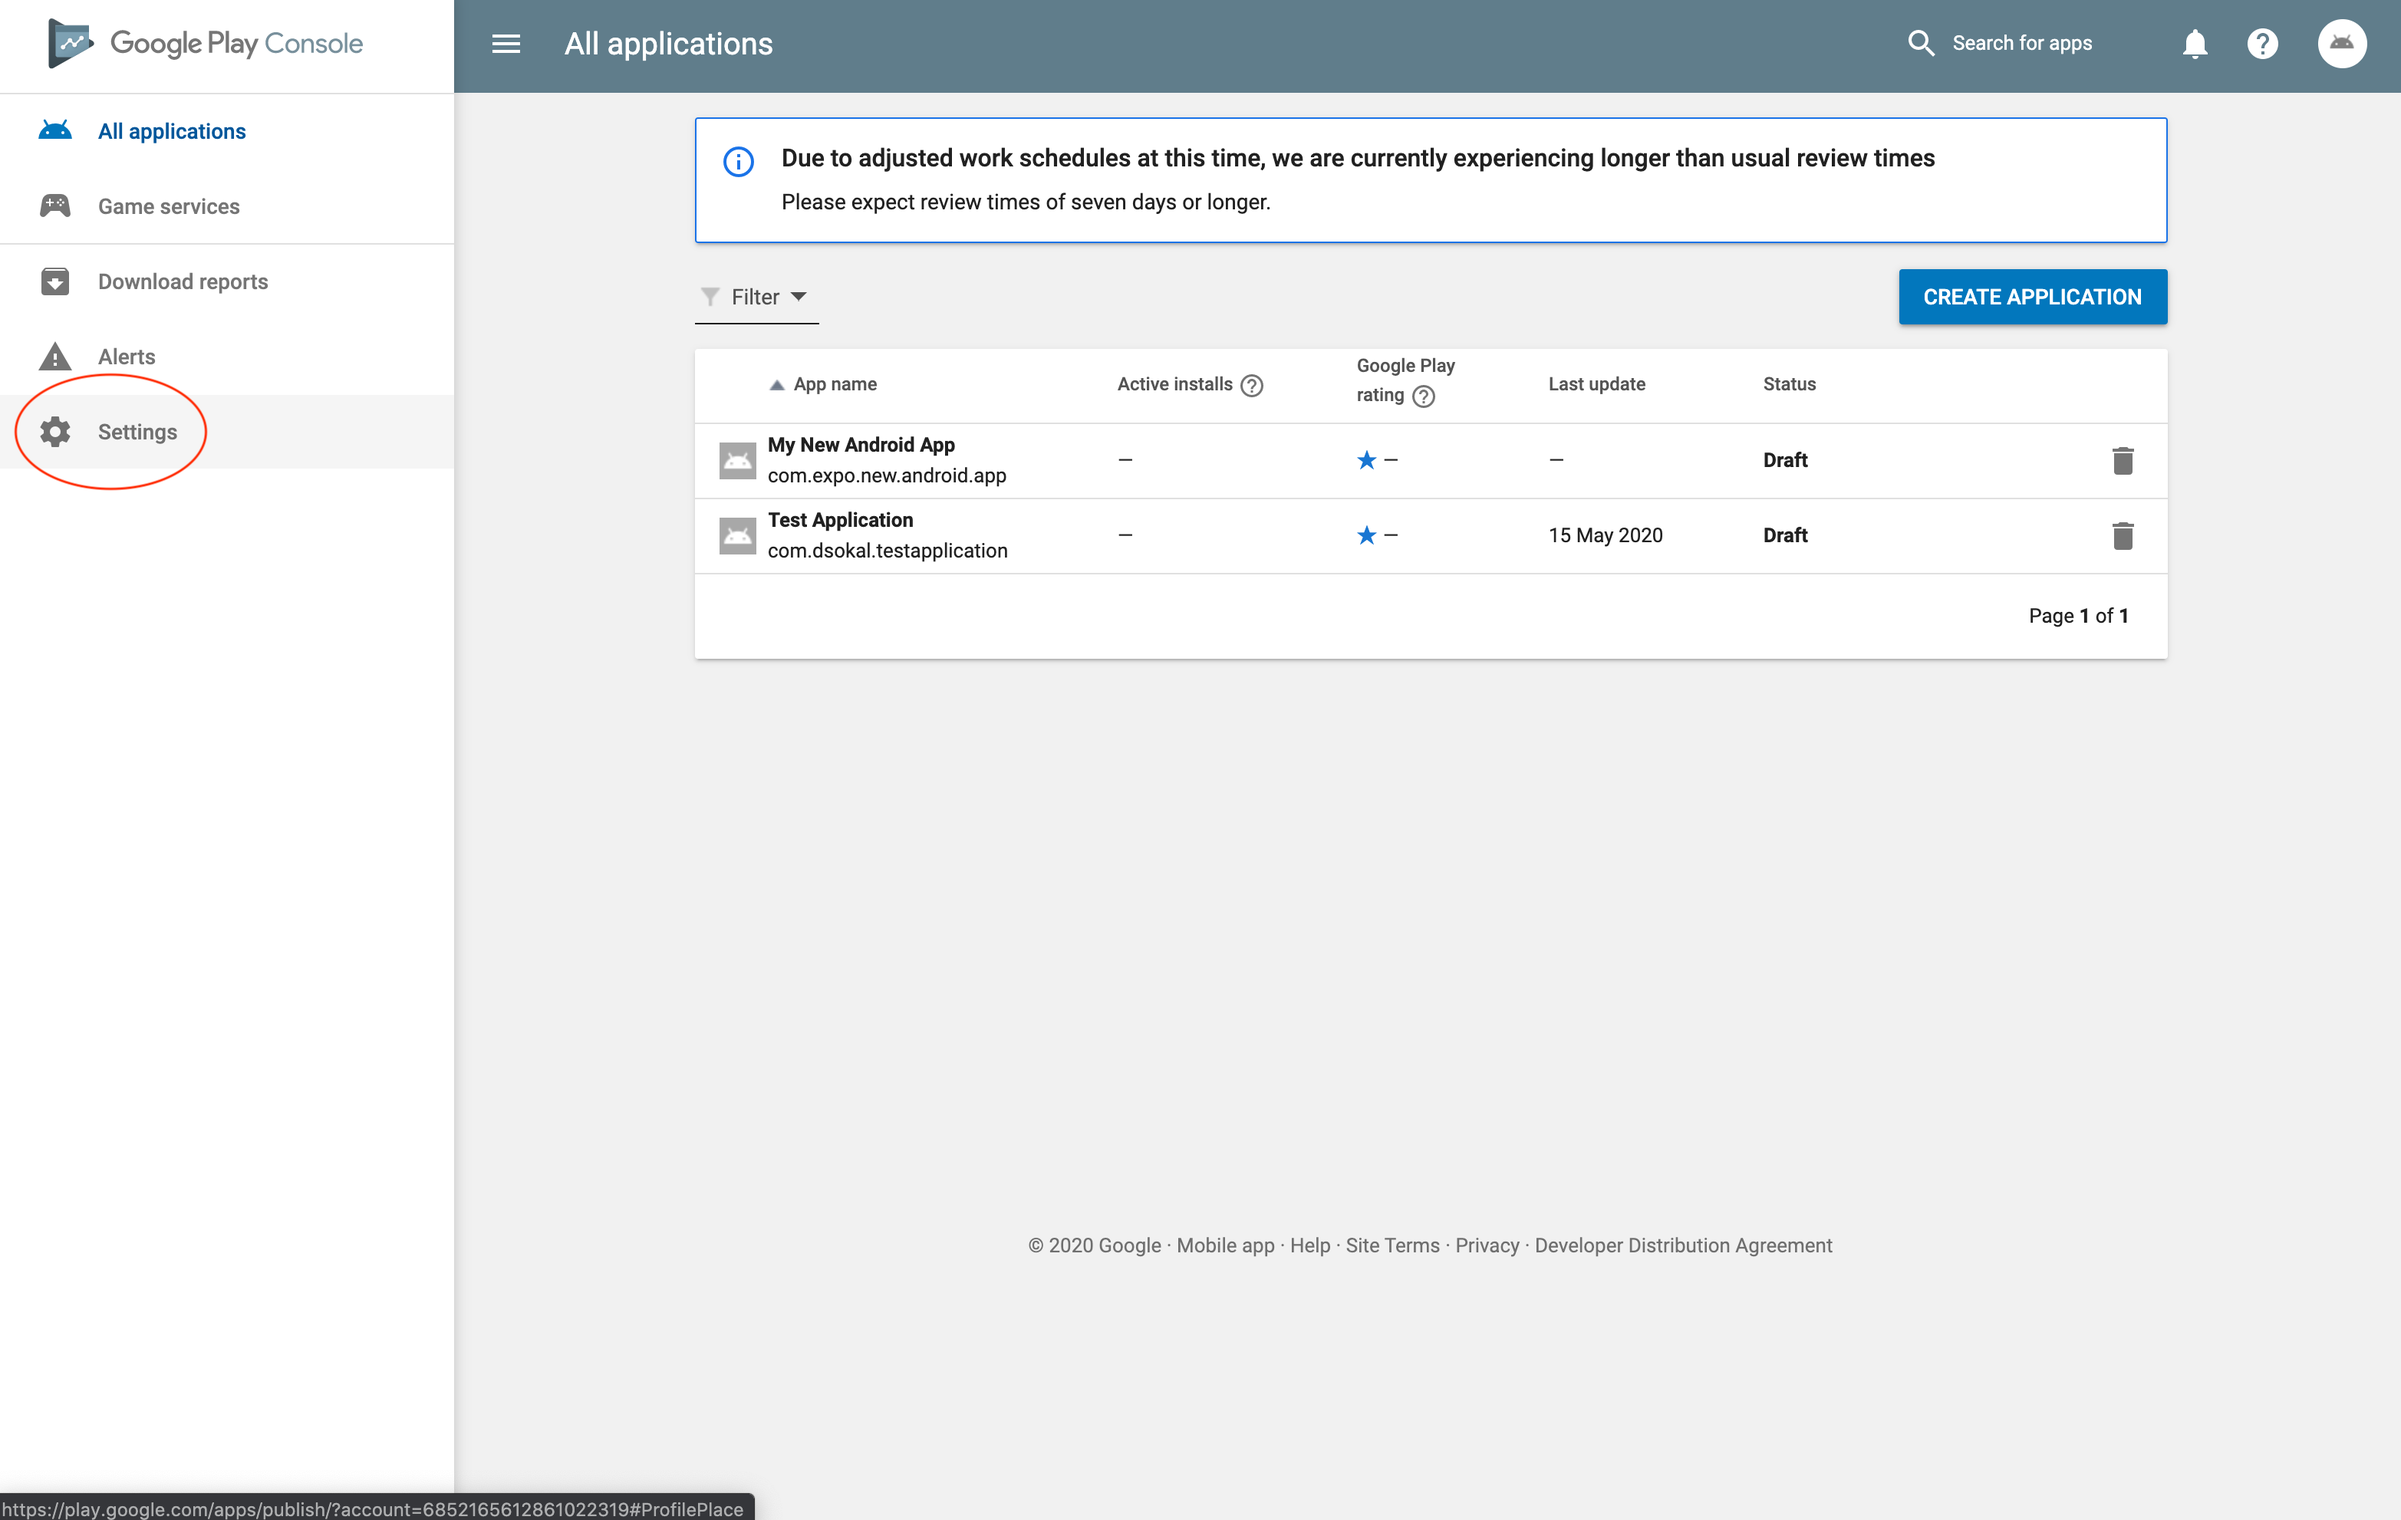
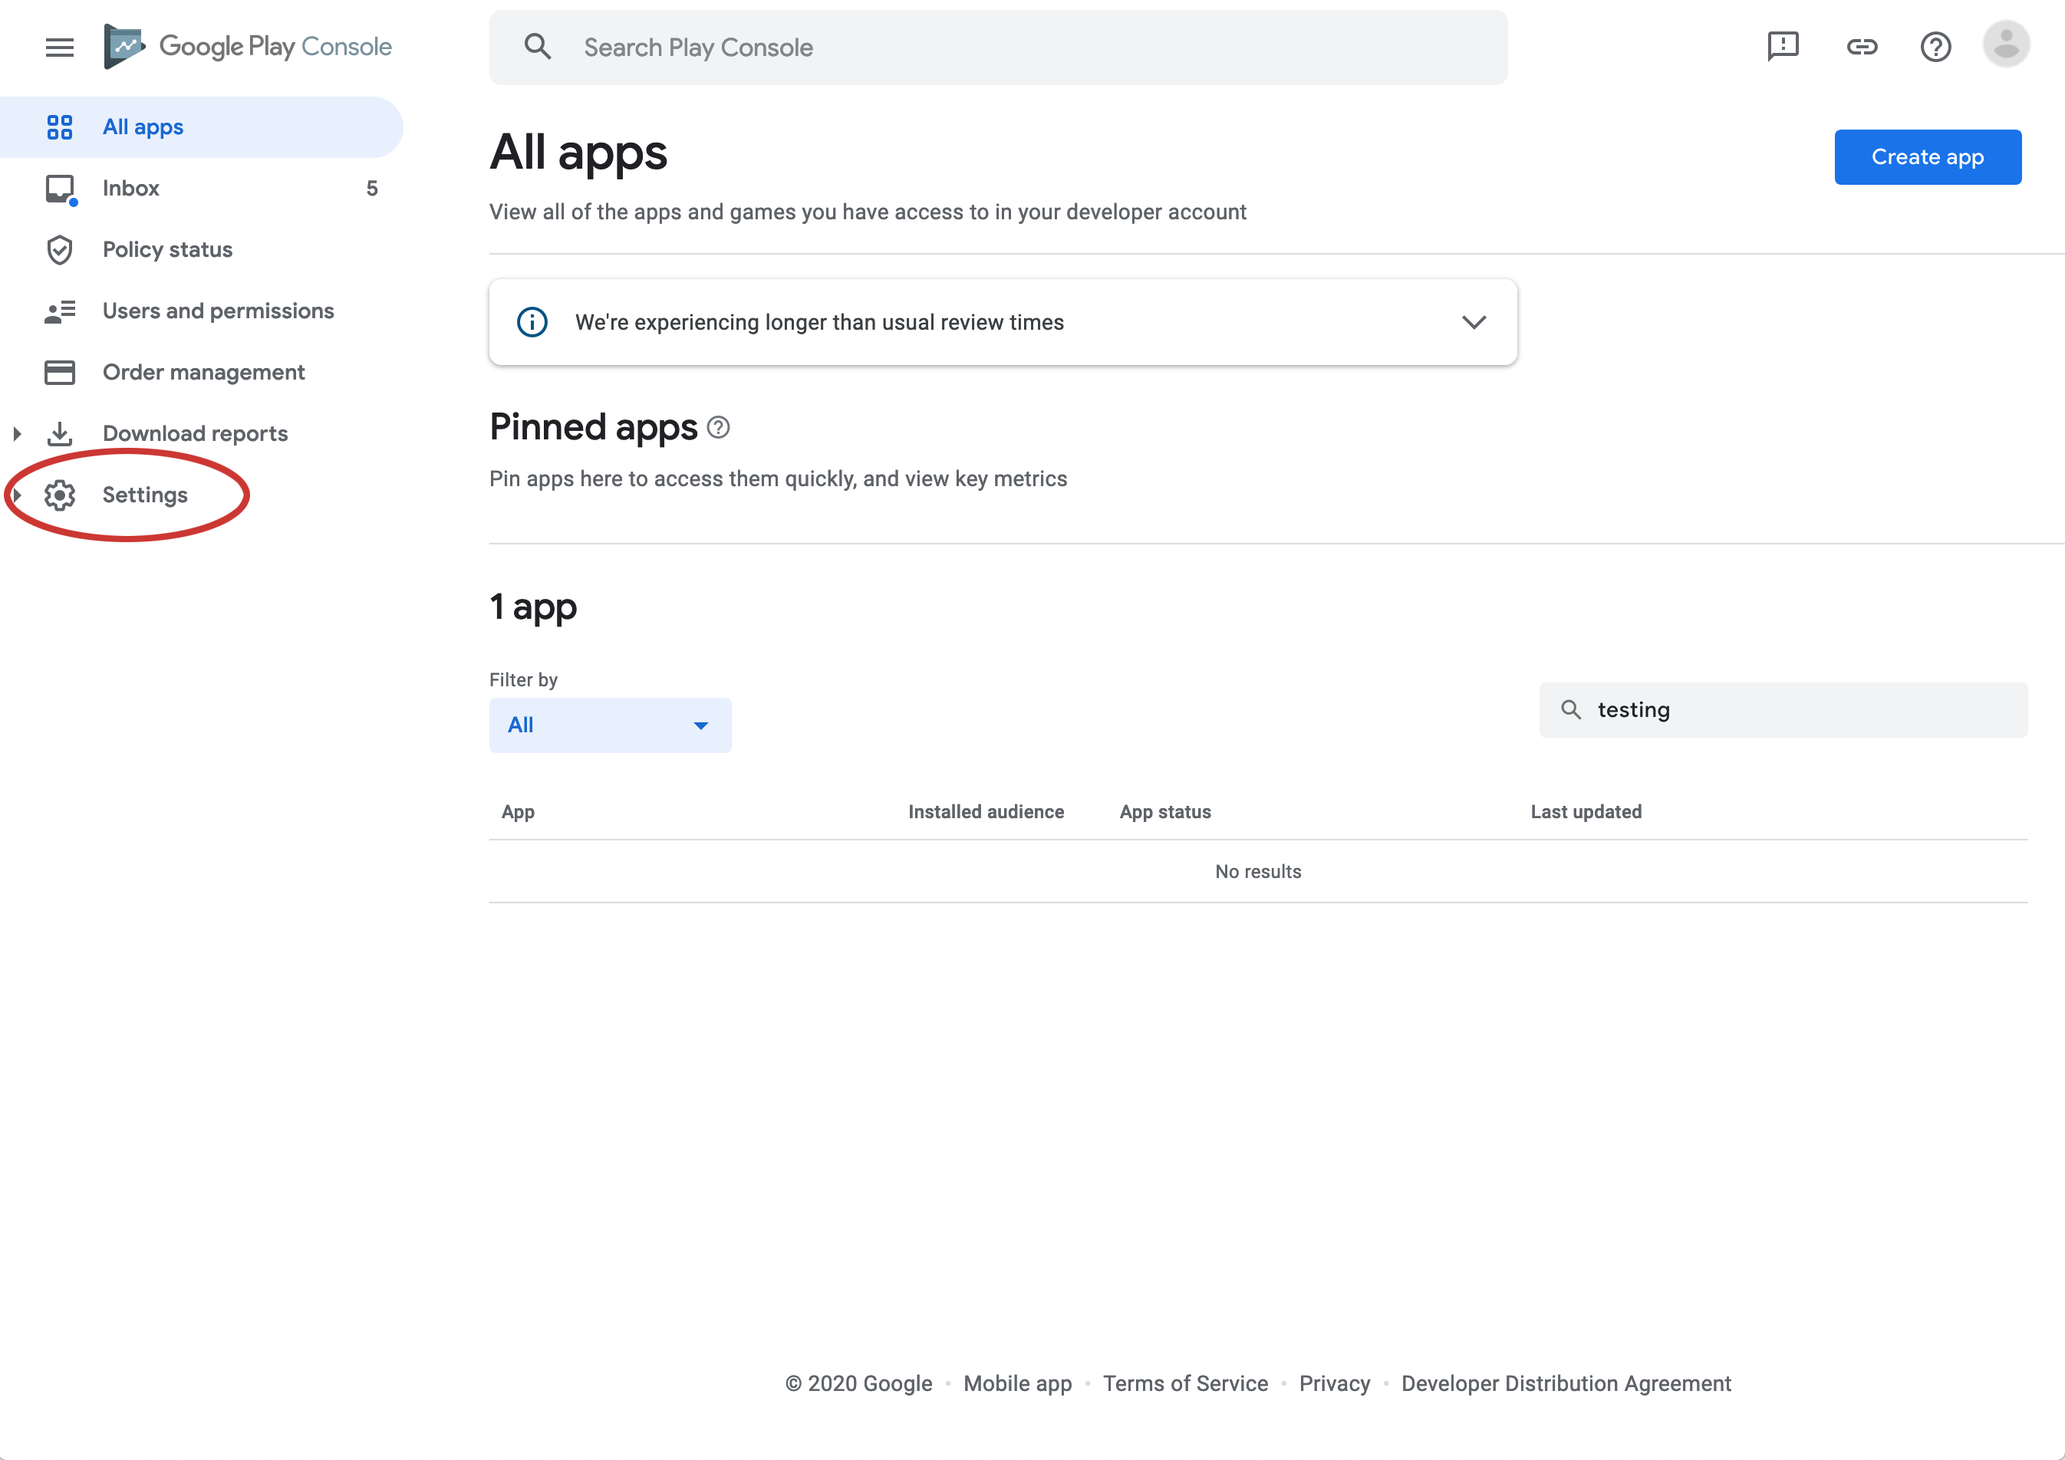
Update for new Google Play Console

diff --git a/creating-google-service-account.md b/creating-google-service-account.md
@@ -1,42 +1,46 @@
 # Creating Google Service Account
 
-If you'd like to submit your Android app to Google Play Store with `expo upload:android` you need to create a Google Service Account key. This page will guide you through this process.
+If you’d like to submit your Android app to Google Play Store with `expo upload:android` you need to create a Google Service Account key. This page will guide you through this process.
 
 1. Open [Google Play Console](https://play.google.com/apps/publish/) and go to the **Settings** tab.
 
 [<img src="./assets/creating-google-service-account/01-open-google-play-console.png" width="800" />](./assets/creating-google-service-account/01-open-google-play-console.png)
 
-2. Choose **API access** from the sidebar. If you see a message saying API access is not enabled for your account, you must first link your Google Play developer account with a Google Developer Project. On this page, either link it to an existing project if you have one, or click **CREATE NEW PROJECT** to link with a new one.
+2. Choose **API access** from the sidebar. If you see a message saying API access is not enabled for your account, you must first link your Google Play developer account with a Google Developer Project. On this page, select **Choose a project to link**, then either link it to an existing project if you have one, or select **Create new project** and then click **Link project**.
 
 [<img src="./assets/creating-google-service-account/02-api-access.png" width="800" />](./assets/creating-google-service-account/02-api-access.png)
 
-3. Click **CREATE SERVICE ACCOUNT** and follow the Google API Console link in the dialog.
+[<img src="./assets/creating-google-service-account/03-create-new-project.png" width="800" />](./assets/creating-google-service-account/03-create-new-project.png)
 
-[<img src="./assets/creating-google-service-account/03-service-account-dialog.png" width="800" />](./assets/creating-google-service-account/03-service-account-dialog.png)
+3. Click **create new service account** and follow the **Google Cloud Platform** link in the dialog.
+
+[<img src="./assets/creating-google-service-account/04-create-new-service-account.png" width="800" />](./assets/creating-google-service-account/04-create-new-service-account.png)
+
+[<img src="./assets/creating-google-service-account/05-service-account-dialog.png" width="800" />](./assets/creating-google-service-account/05-service-account-dialog.png)
 
 4. Click another **CREATE SERVICE ACCOUNT** button.
 
-[<img src="./assets/creating-google-service-account/04-google-cloud-platform.png" width="800" />](./assets/creating-google-service-account/04-google-cloud-platform.png)
+[<img src="./assets/creating-google-service-account/06-google-cloud-platform.png" width="800" />](./assets/creating-google-service-account/06-google-cloud-platform.png)
 
 5. Enter the name of this service account in the field titled "Service account name". We recommend a name that will make it easy for you to remember that it is for your Google Play Console account. Also, enter the service account ID and description of your choice. Click the **CREATE** button.
 
-[<img src="./assets/creating-google-service-account/05-service-account-name.png" width="800" />](./assets/creating-google-service-account/05-service-account-name.png)
+[<img src="./assets/creating-google-service-account/07-service-account-name.png" width="800" />](./assets/creating-google-service-account/07-service-account-name.png)
 
-6. Click **Select a role** and choose **Service Accounts > Service Account User**. Submit the form.
+6. Click **Select a role** and choose **Service Accounts > Service Account User**. Click **DONE**.
 
-[<img src="./assets/creating-google-service-account/06-service-account-permissions.png" width="800" />](./assets/creating-google-service-account/06-service-account-permissions.png)
+[<img src="./assets/creating-google-service-account/08-service-account-permissions.png" width="800" />](./assets/creating-google-service-account/08-service-account-permissions.png)
 
-7. Click **CREATE KEY**, choose **JSON** and then the **CREATE** button. Download the `.json` file and store it in a safe place.
+7. Select **Create key** from the options button for your newly created Service Account. Choose **JSON** and then the **CREATE** button. Download the `.json` file and store it in a safe place.
 
-[<img src="./assets/creating-google-service-account/07-create-key.png" width="800" />](./assets/creating-google-service-account/07-create-key.png)
-[<img src="./assets/creating-google-service-account/08-create-json-key.png" width="800" />](./assets/creating-google-service-account/08-create-json-key.png)
+[<img src="./assets/creating-google-service-account/09-create-key.png" width="800" />](./assets/creating-google-service-account/09-create-key.png)
+[<img src="./assets/creating-google-service-account/10-create-json-key.png" width="800" />](./assets/creating-google-service-account/10-create-json-key.png)
 
-8. Return to the **API access page** on the Google Play Console and ensure it shows your new service account. Click on **GRANT ACCESS** for the newly added service account.
+8. Return to the **API access page** on the Google Play Console and ensure it shows your new service account. Click on **Grant access** for the newly added service account.
 
-[<img src="./assets/creating-google-service-account/09-grant-access.png" width="800" />](./assets/creating-google-service-account/09-grant-access.png)
+[<img src="./assets/creating-google-service-account/11-grant-access.png" width="800" />](./assets/creating-google-service-account/11-grant-access.png)
 
-9. Choose **Release Manager** and then **ADD USER**.
+9. Click **Invite user**.
 
-[<img src="./assets/creating-google-service-account/10-add-user-modal.png" width="800" />](./assets/creating-google-service-account/10-add-user-modal.png)
+[<img src="./assets/creating-google-service-account/12-invite-user.png" width="800" />](./assets/creating-google-service-account/12-invite-user.png)
 
 10. That's all! From now on, you can use the generated Google Service Account to upload your app with `expo upload:android`.
